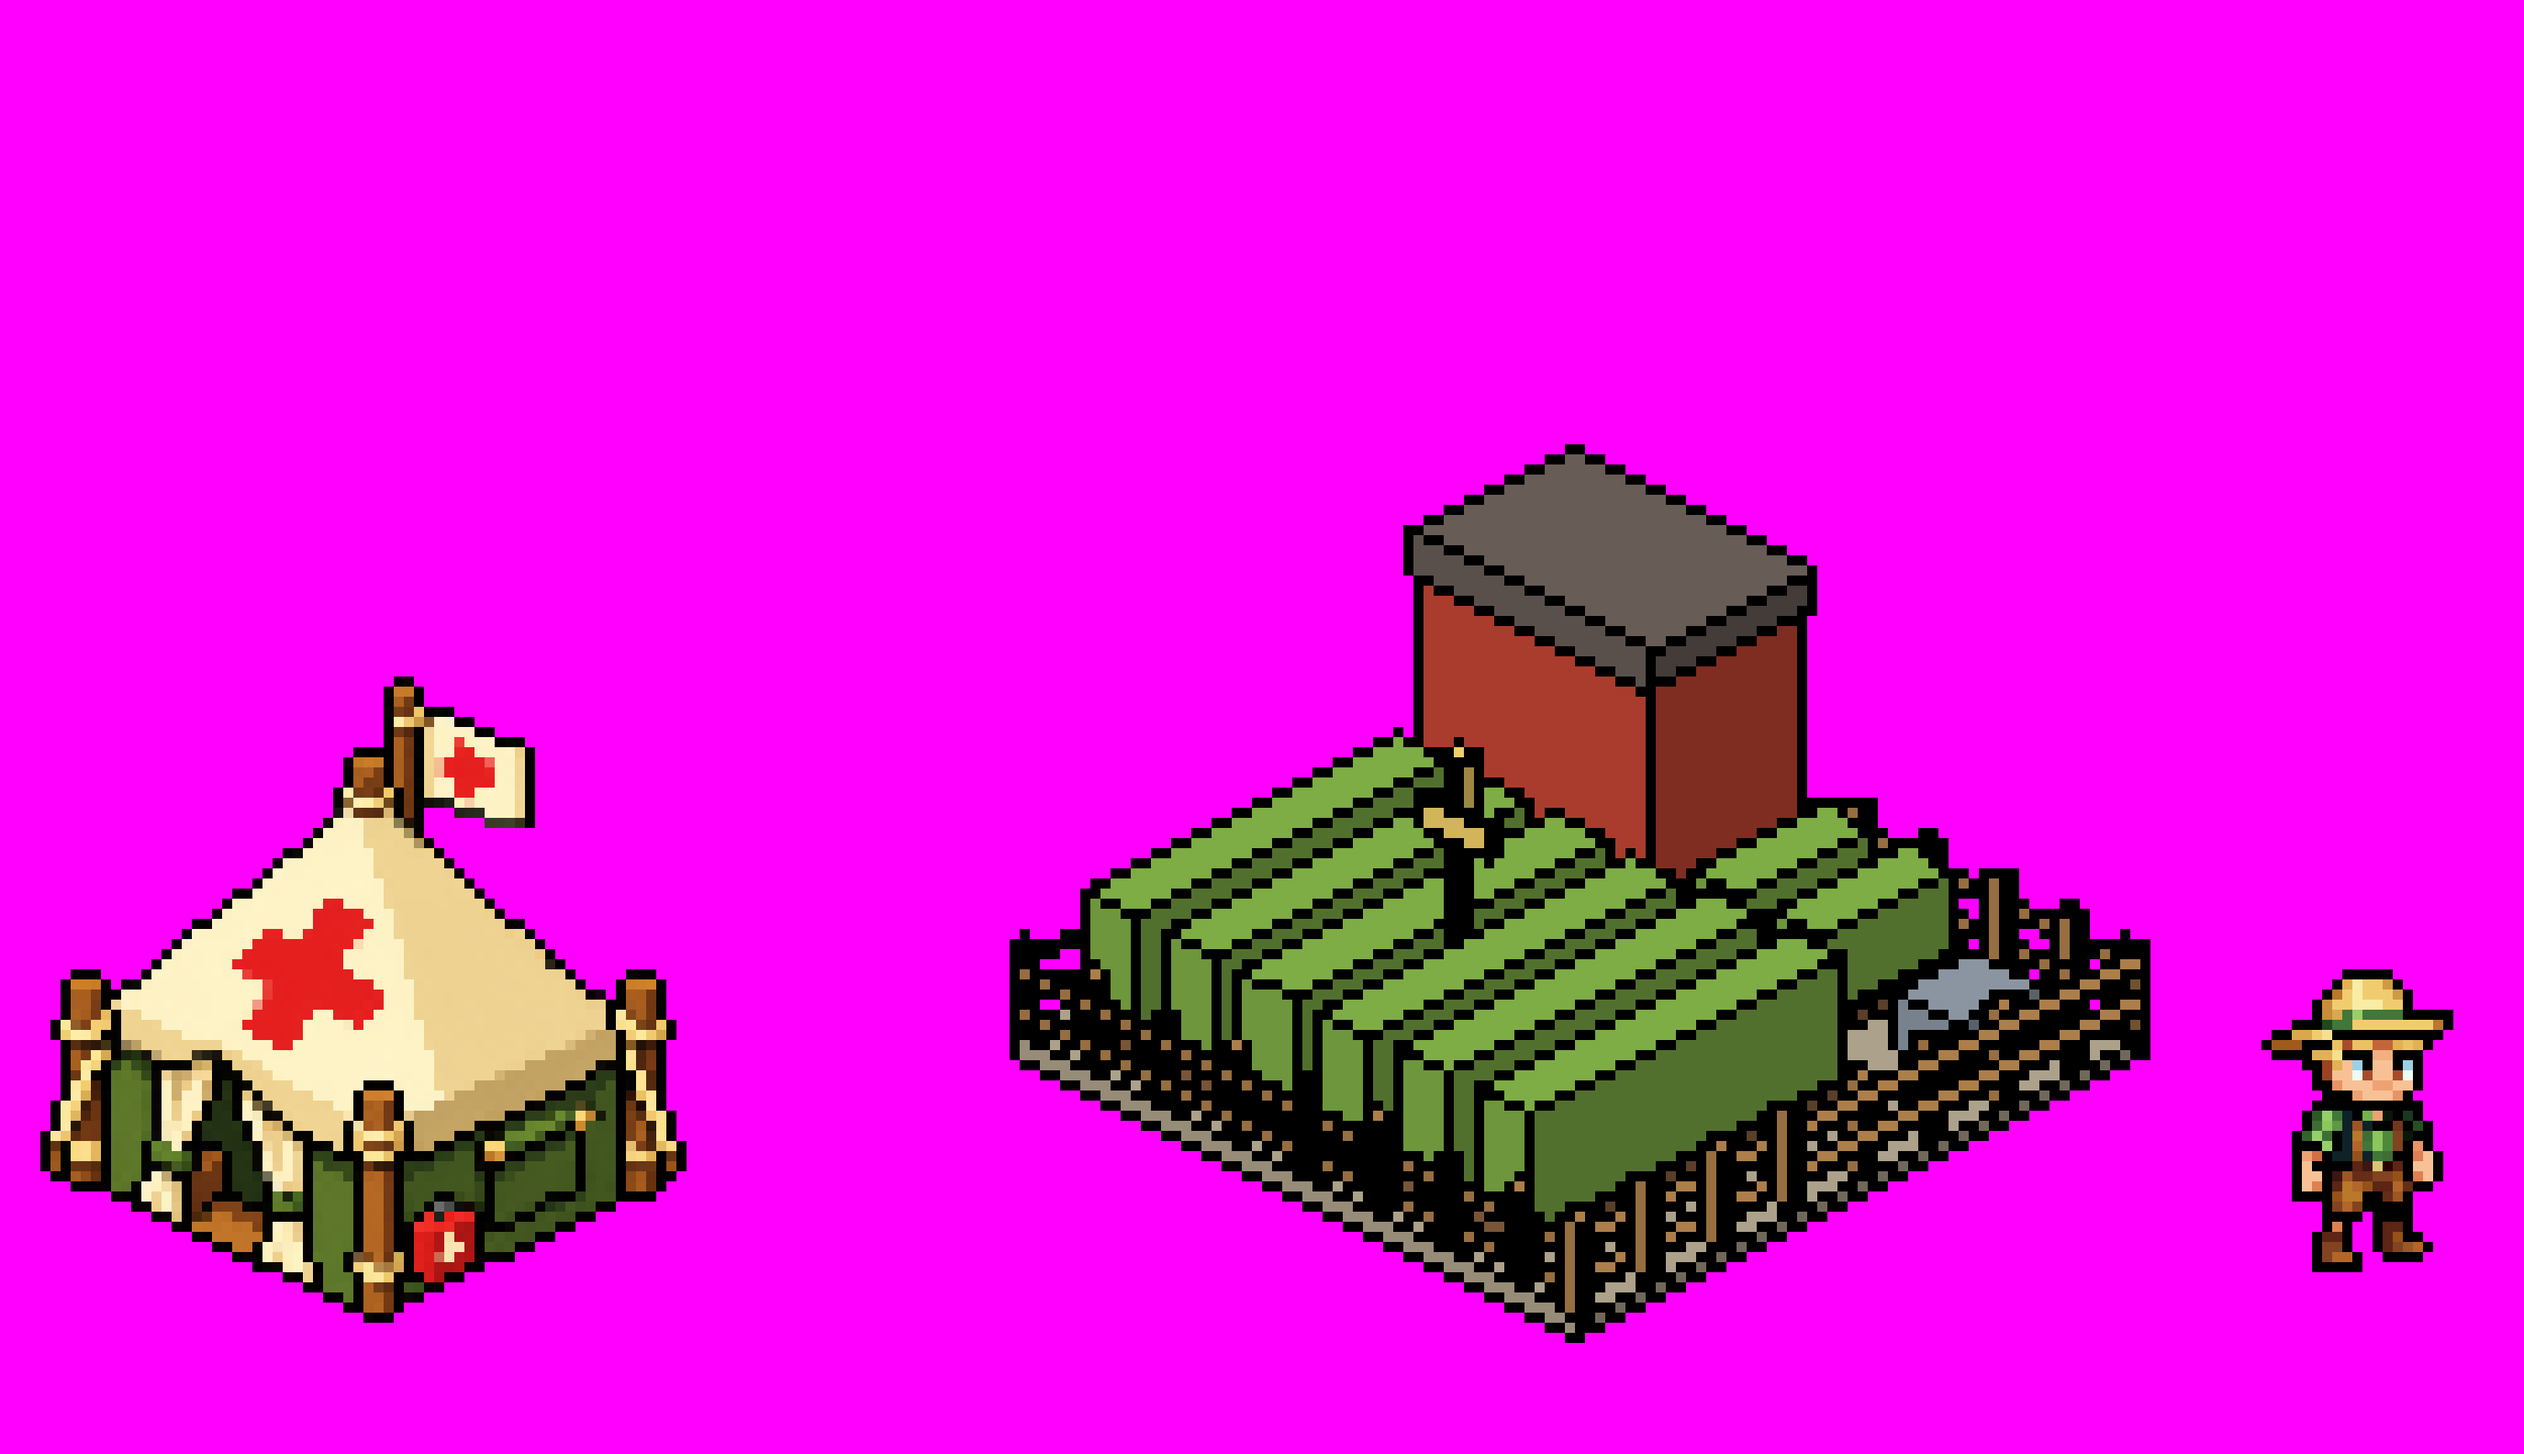
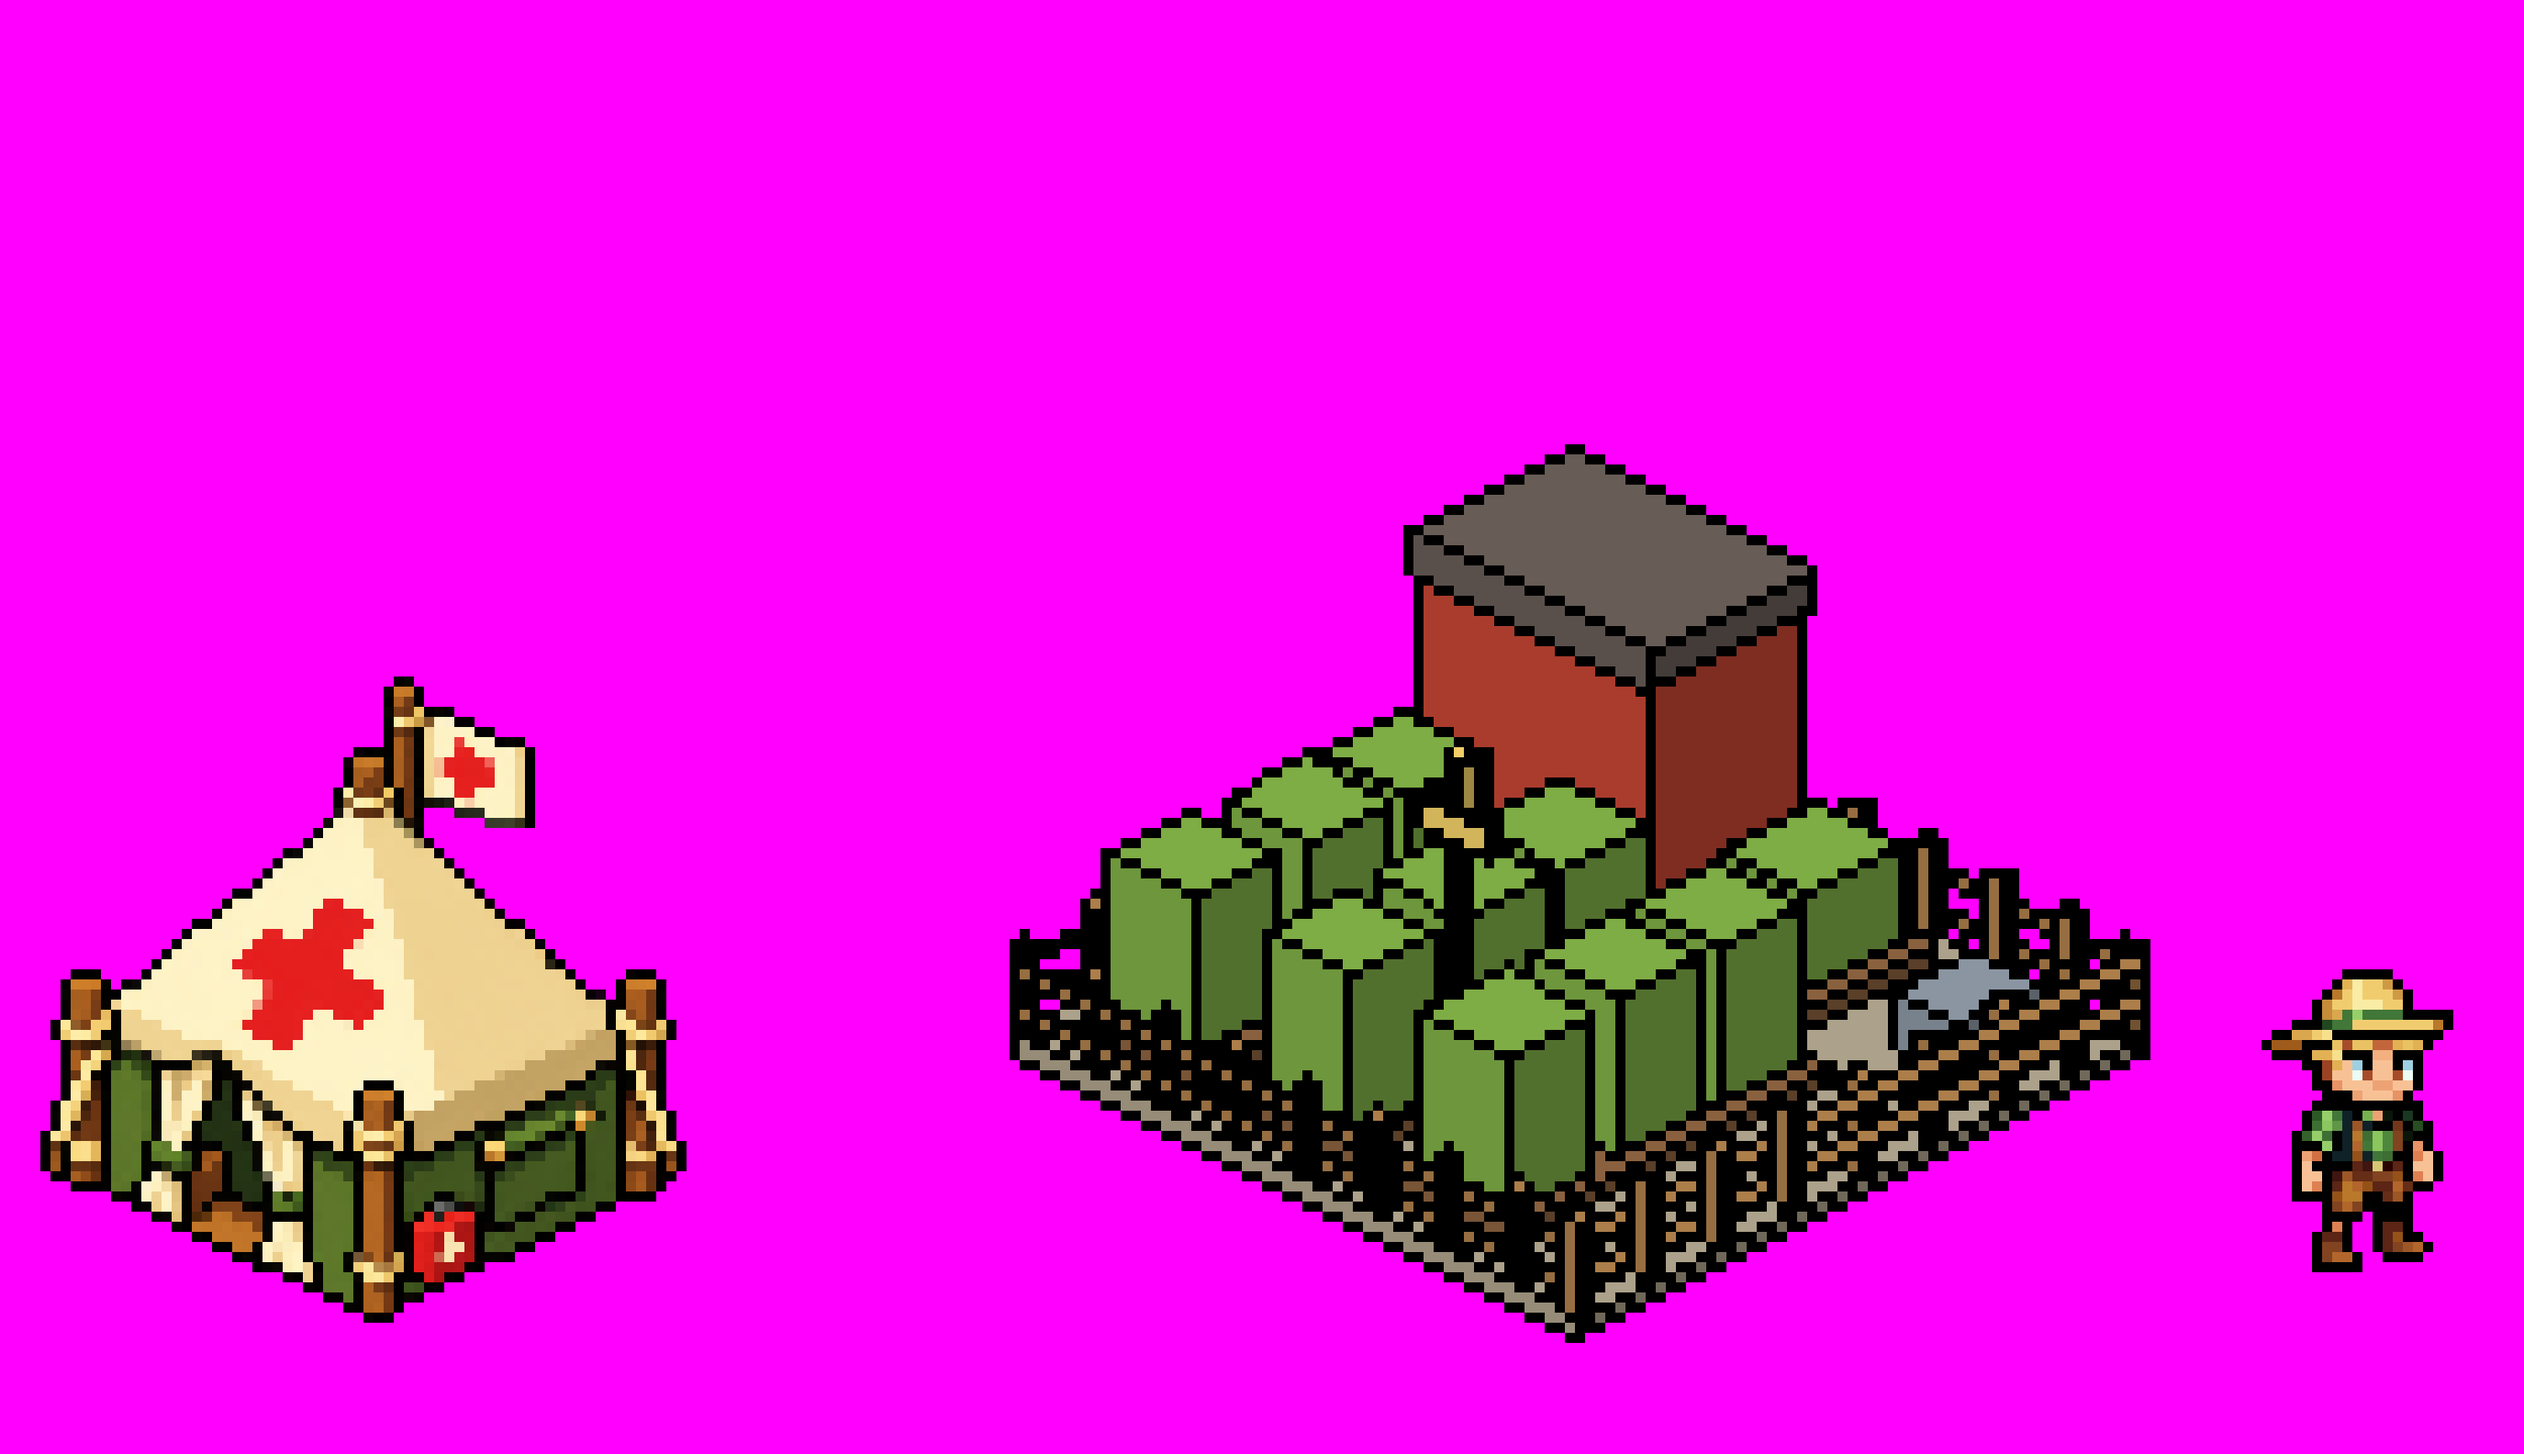
Farm model: fewer, bigger crops (3 beds x 3 big plants + one bed by the barn)
Claude-Session: https://claude.ai/code/session_014xWrqmw1tDuMEr3xW9Kw6Z

Changed region(s): [[0.434, 0.4688, 0.775, 0.8438]]

diff --git a/tools/art/model_field.py b/tools/art/model_field.py
@@ -9,11 +9,10 @@ DIRT, SOIL, CROP, FENCE, BARN, BROOF, TROUGH, STRAW = ((150, 140, 120), (120, 85
     (170, 60, 45), (90, 80, 75), (120, 130, 140), (210, 180, 90))
 t = .03
 OBJ = [(0, 2, 0, 2, 0, 2, DIRT)]
-ROWS = (.12, .4, .68, .96, 1.24, 1.52)
-OBJ += [(.1, 1.25, v, v + .22, 2, 4, SOIL) for v in ROWS]                                # six tilled rows, full length
-OBJ += [(.12, 1.23, v + .02, v + .2, 4, 16, CROP) for v in ROWS]                        # tall, full crops on them
-OBJ += [(1.38, 1.9, v, v + .2, 2, 4, SOIL) for v in (1.0, 1.28)]                        # two short rows in front of the barn
-OBJ += [(1.4, 1.88, v + .02, v + .18, 4, 12, CROP) for v in (1.0, 1.28)]
+ROWS = (.15, .7, 1.25)
+OBJ += [(.12, 1.25, v, v + .4, 2, 4, SOIL) for v in ROWS]                                 # three wide beds
+OBJ += [(u, u + .3, v + .05, v + .35, 4, 20, CROP) for v in ROWS for u in (.15, .55, .9)]  # three BIG plants per bed
+OBJ += [(1.4, 1.88, 1.0, 1.4, 2, 4, SOIL), (1.45, 1.8, 1.05, 1.35, 4, 14, CROP)]           # one bed in front of the barn
 OBJ += [(1.35, 1.9, .1, .9, 2, 30, BARN), (1.33, 1.92, .08, .92, 30, 34, BROOF)]        # small barn, back corner
 OBJ += [(1.5, 1.8, 1.62, 1.85, 2, 7, TROUGH)]                                           # water trough, front corner
 OBJ += [(.66, .7, .9, .94, 2, 32, FENCE), (.66, .7, .8, 1.04, 24, 27, STRAW),   # scarecrow in the middle of the crops: pole, arms
